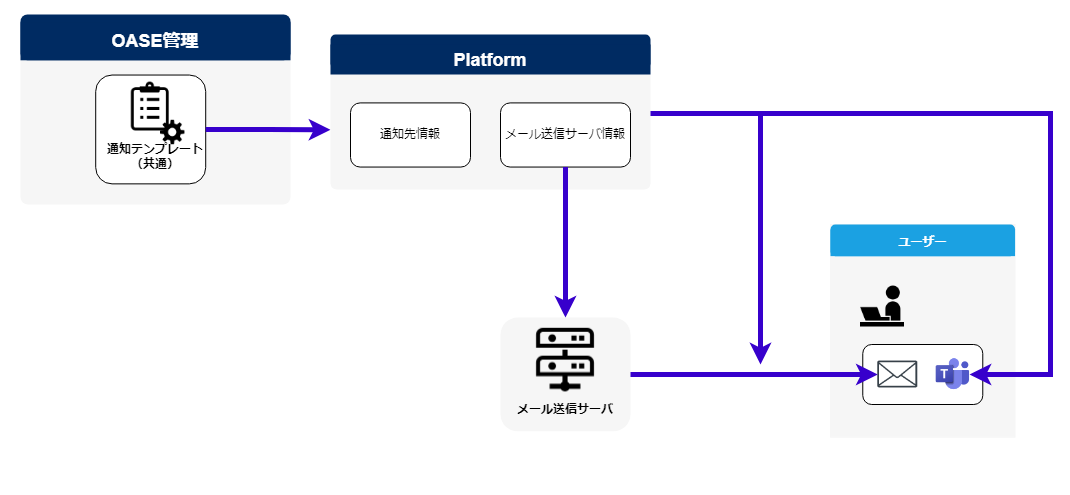
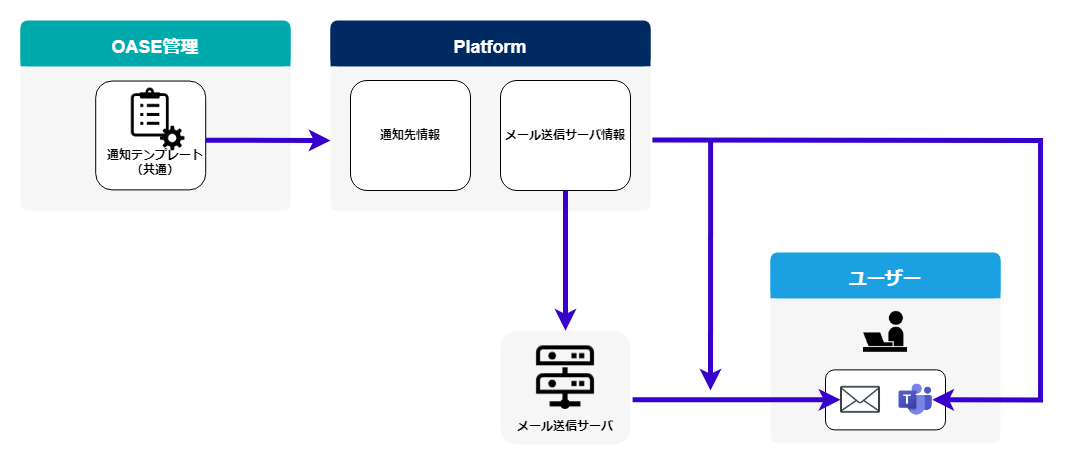
通知テンプレート（共通）の作業フロー図追加・概要図の修正、oase付録のデータ修正

diff --git a/src/ja/2.3/manuals/oase/oase.rst b/src/ja/2.3/manuals/oase/oase.rst
@@ -65,7 +65,7 @@ OASE 利用手順
 OASE作業フロー
 -----------------------
 
-| OASE の各メニューにおける標準的な作業フローは以下のとおりです。
+| OASE の各メニューにおける標準的な作業フローは以下の通りです。
 | 各作業の詳細は次項に記載しています。
 
 .. figure:: /images/ja/oase/oase/oase_rule_process_v2-3.png
@@ -858,11 +858,12 @@ OASE メニュー
                "lastchange": 1696403830.0,
                "subject": "test mail",
                "body": "sample\r\n"
-               "_exastro_event_collection_settings_id": "d0c9a70c-a1c0-4c7b-9e96-82e602ebc55e",
-               "_exastro_fetched_time": 1696406510,
-               "_exastro_end_time": 1696406810,
-               "_exastro_type": "event"
-           }],
+               "_exastro_event_collection_settings_id": "d0c9a70c-a1c0-4c7b-9e96-82e602ebc55e",
+               "_exastro_fetched_time": 1696406510,
+               "_exastro_end_time": 1696406810,
+               "_exastro_type": "event"
+               "_exastro_event_collection_settings_name": "agent01"
+           }]
    }
 
 .. _loop_care_notes:

diff --git a/src/ja/2.3/manuals/oase/oase_management.rst b/src/ja/2.3/manuals/oase/oase_management.rst
@@ -94,6 +94,12 @@ OASE管理 通知テンプレート（共通）利用手順
 | OASEの通知機能を利用するために必要な作業フローは以下のとおりです。
 | 各作業の詳細は次項に記載しています。
 
+.. figure:: /images/ja/oase/oase_management/notification_template_process.png
+   :width: 700px
+   :alt: 通知テンプレート（共通）作業フロー
+
+   通知テンプレート（共通）作業フロー
+
 -  **作業フロー詳細と参照先**
 
    #. | **通知テンプレート（共通）のメンテナンス（閲覧/更新）**
@@ -236,7 +242,7 @@ OASE管理 メニュー
      - 手動入力
      - 最大長4000バイト
 
-| テンプレートの初期設定値は下記の通りです。
+| テンプレートの初期設定値は下記のとおりです。
 
 .. code-block:: none
    :name: 新規.j2
